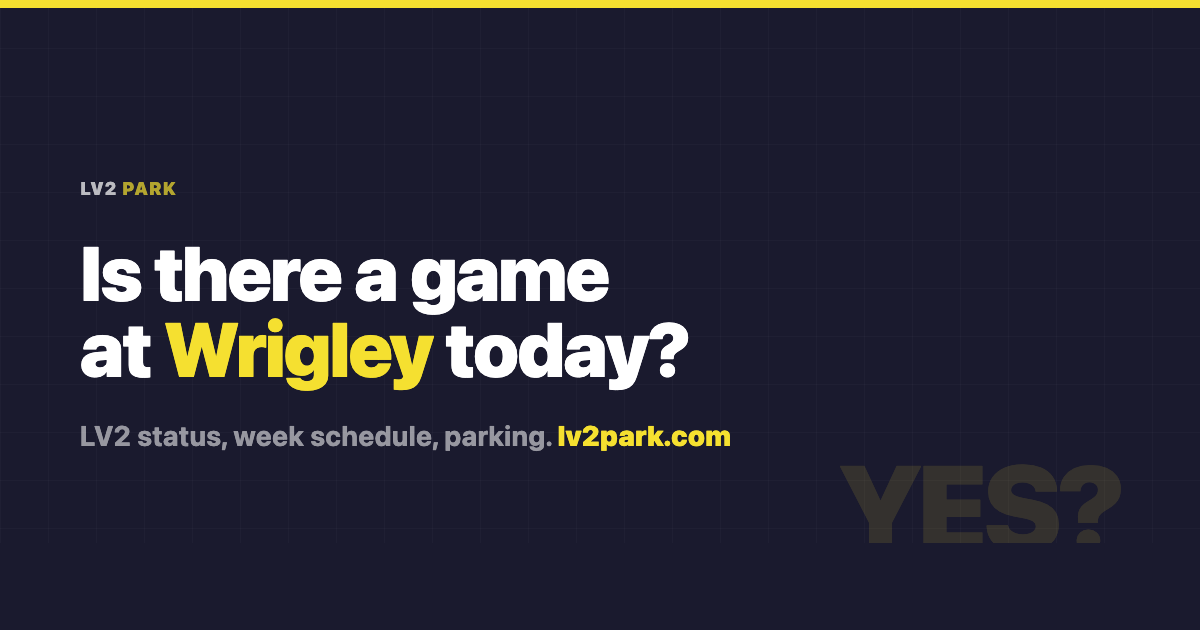
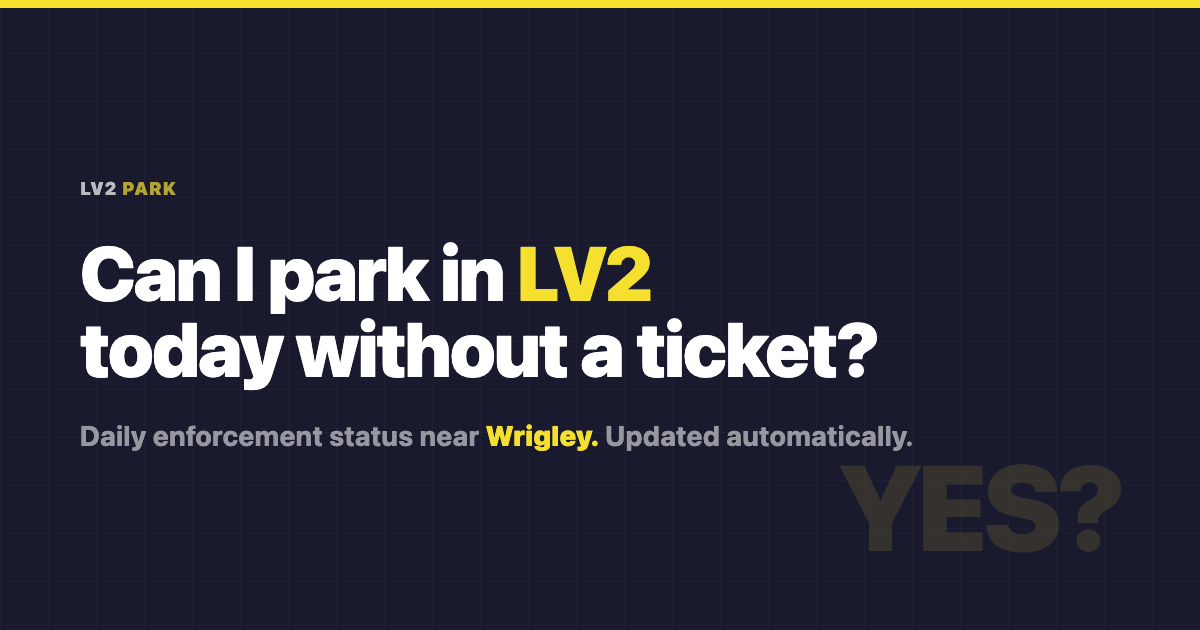
Update OG image to parking question framing
Reframes social share card from game question to parking question.
Keeps same dark/yellow design aesthetic.

diff --git a/og-image-a-src.html b/og-image-a-src.html
@@ -1,0 +1,135 @@
+<!DOCTYPE html>
+<html>
+<head>
+<meta charset="UTF-8">
+<style>
+  * { box-sizing: border-box; margin: 0; padding: 0; }
+  body {
+    width: 1200px;
+    height: 630px;
+    background: #1A1A2E;
+    font-family: -apple-system, 'Inter', system-ui, sans-serif;
+    overflow: hidden;
+    display: flex;
+    flex-direction: column;
+    justify-content: center;
+    padding: 72px 80px;
+    position: relative;
+  }
+
+  /* Background texture */
+  body::before {
+    content: '';
+    position: absolute;
+    inset: 0;
+    background-image:
+      linear-gradient(rgba(255,255,255,0.025) 1px, transparent 1px),
+      linear-gradient(90deg, rgba(255,255,255,0.025) 1px, transparent 1px);
+    background-size: 48px 48px;
+  }
+
+  /* Yellow top bar */
+  .bar {
+    position: absolute;
+    top: 0; left: 0; right: 0;
+    height: 8px;
+    background: #F5E030;
+  }
+
+  /* Logo */
+  .logo {
+    font-size: 18px;
+    font-weight: 900;
+    letter-spacing: .06em;
+    text-transform: uppercase;
+    color: #fff;
+    margin-bottom: 28px;
+    opacity: 0.7;
+    position: relative;
+    z-index: 1;
+  }
+  .logo span { color: #F5E030; }
+
+  /* Small label above answer */
+  .pre-label {
+    font-size: 22px;
+    font-weight: 700;
+    color: rgba(255,255,255,0.45);
+    letter-spacing: .04em;
+    text-transform: uppercase;
+    margin-bottom: 16px;
+    position: relative;
+    z-index: 1;
+  }
+
+  /* Big answer */
+  .answer {
+    font-size: 148px;
+    font-weight: 900;
+    line-height: 0.9;
+    letter-spacing: -.04em;
+    color: #F5E030;
+    position: relative;
+    z-index: 1;
+    margin-bottom: 28px;
+  }
+
+  /* Status detail */
+  .detail {
+    font-size: 26px;
+    font-weight: 700;
+    color: rgba(255,255,255,0.55);
+    position: relative;
+    z-index: 1;
+  }
+  .detail strong {
+    color: #F5E030;
+    font-weight: 900;
+  }
+
+  /* Ghost zone label right */
+  .zone-ghost {
+    position: absolute;
+    right: 80px;
+    top: 50%;
+    transform: translateY(-50%);
+    font-size: 240px;
+    font-weight: 900;
+    line-height: 1;
+    color: rgba(245,224,48,0.06);
+    letter-spacing: -.06em;
+    z-index: 0;
+    user-select: none;
+  }
+
+  /* Domain */
+  .domain {
+    position: absolute;
+    bottom: 36px;
+    right: 80px;
+    font-size: 20px;
+    font-weight: 700;
+    color: rgba(255,255,255,0.35);
+    letter-spacing: .04em;
+    z-index: 1;
+  }
+  .domain strong { color: #F5E030; font-weight: 900; }
+</style>
+</head>
+<body>
+  <div class="bar"></div>
+  <div class="zone-ghost">LV2</div>
+
+  <div class="logo">LV2 <span>PARK</span></div>
+
+  <div class="pre-label">Can I park in LV2 today?</div>
+
+  <div class="answer">SAFE.</div>
+
+  <div class="detail">
+    No Cubs game tonight &mdash; Zone 383 enforcement inactive. <strong>lv2park.com</strong>
+  </div>
+
+  <div class="domain">lv2park.com</div>
+</body>
+</html>

diff --git a/og-image-b-src.html b/og-image-b-src.html
@@ -1,0 +1,121 @@
+<!DOCTYPE html>
+<html>
+<head>
+<meta charset="UTF-8">
+<style>
+  * { box-sizing: border-box; margin: 0; padding: 0; }
+  body {
+    width: 1200px;
+    height: 630px;
+    background: #1A1A2E;
+    font-family: -apple-system, 'Inter', system-ui, sans-serif;
+    overflow: hidden;
+    display: flex;
+    flex-direction: column;
+    justify-content: center;
+    padding: 72px 80px;
+    position: relative;
+  }
+
+  /* Background texture */
+  body::before {
+    content: '';
+    position: absolute;
+    inset: 0;
+    background-image:
+      linear-gradient(rgba(255,255,255,0.025) 1px, transparent 1px),
+      linear-gradient(90deg, rgba(255,255,255,0.025) 1px, transparent 1px);
+    background-size: 48px 48px;
+  }
+
+  /* Yellow top bar */
+  .bar {
+    position: absolute;
+    top: 0; left: 0; right: 0;
+    height: 8px;
+    background: #F5E030;
+  }
+
+  /* Logo */
+  .logo {
+    font-size: 18px;
+    font-weight: 900;
+    letter-spacing: .06em;
+    text-transform: uppercase;
+    color: #fff;
+    margin-bottom: 36px;
+    opacity: 0.7;
+    position: relative;
+    z-index: 1;
+  }
+  .logo span { color: #F5E030; }
+
+  /* Main question */
+  .question {
+    font-size: 76px;
+    font-weight: 900;
+    line-height: 1.0;
+    color: #fff;
+    letter-spacing: -.02em;
+    margin-bottom: 32px;
+    max-width: 820px;
+    position: relative;
+    z-index: 1;
+  }
+  .question em {
+    font-style: normal;
+    color: #F5E030;
+  }
+
+  /* Sub line */
+  .sub {
+    font-size: 28px;
+    font-weight: 700;
+    color: rgba(255,255,255,0.55);
+    letter-spacing: .01em;
+    position: relative;
+    z-index: 1;
+  }
+  .sub strong {
+    color: #F5E030;
+    font-weight: 900;
+  }
+
+  /* Right side ghost answer */
+  .badge {
+    position: absolute;
+    right: 80px;
+    bottom: 64px;
+    display: flex;
+    flex-direction: column;
+    align-items: flex-end;
+    gap: 6px;
+    z-index: 1;
+  }
+  .badge-answer {
+    font-size: 120px;
+    font-weight: 900;
+    line-height: 1;
+    color: rgba(245,224,48,0.12);
+    letter-spacing: -.04em;
+  }
+</style>
+</head>
+<body>
+  <div class="bar"></div>
+
+  <div class="logo">LV2 <span>PARK</span></div>
+
+  <div class="question">
+    Can I park in <em>LV2</em><br>today without a ticket?
+  </div>
+
+  <div class="sub">
+    Daily enforcement status near <strong>Wrigley.</strong> Updated automatically.
+  </div>
+
+  <div class="badge">
+    <div class="badge-answer">YES?</div>
+  </div>
+</body>
+</html>
